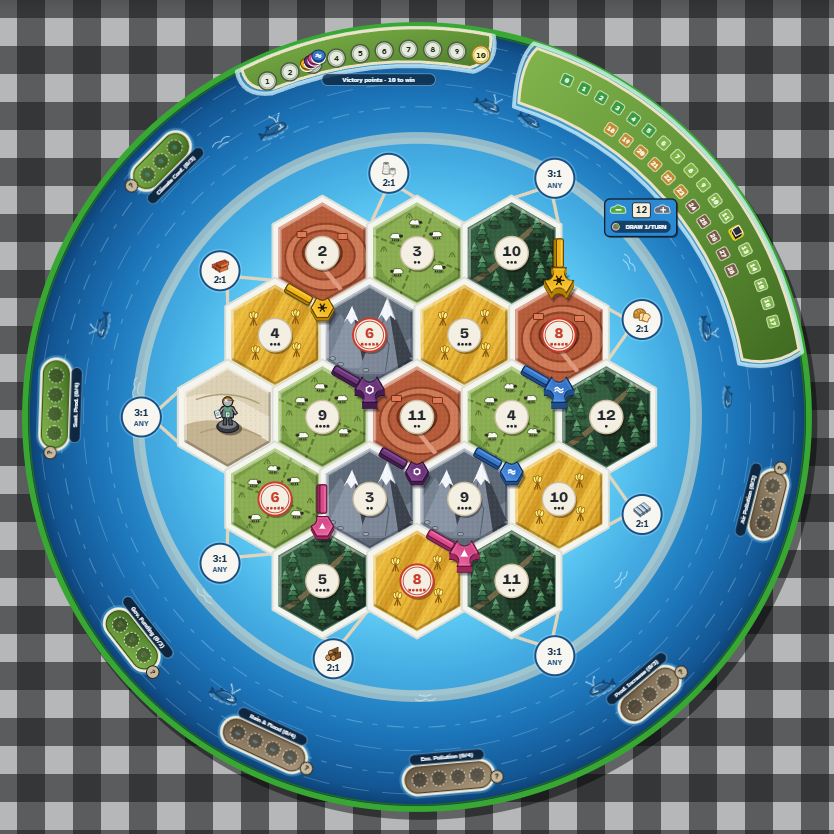
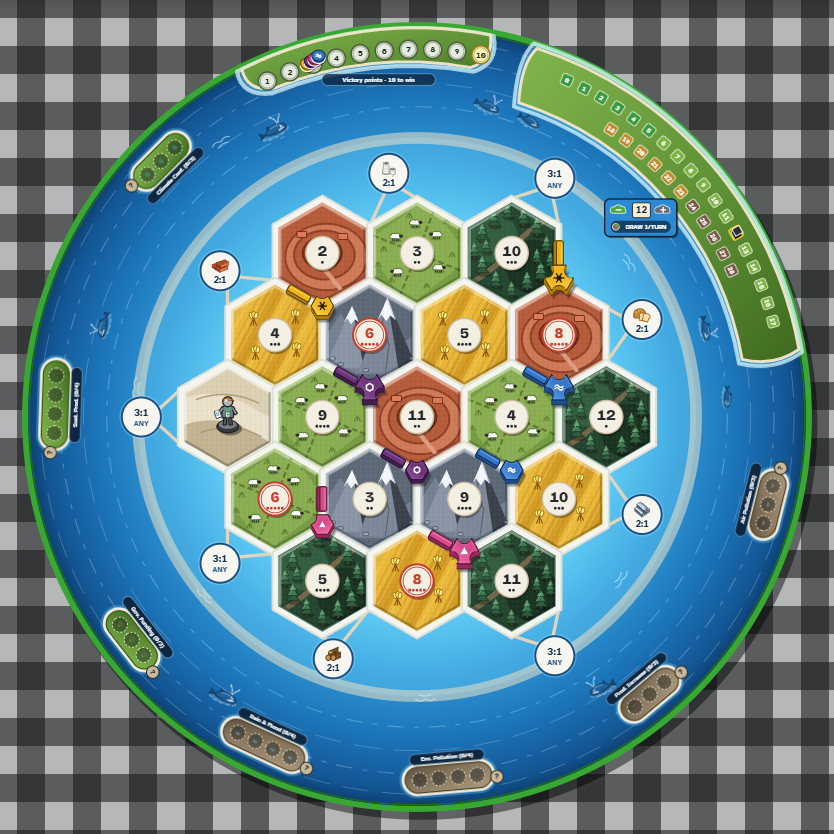
fix(ui): cities and towns sit centred on their intersection and meet roads cleanly
The piece's top face was drawn on the intersection with its side wall
hanging below it, so the whole piece reached about 5 units further toward
a road below the node than toward one above it. A city with a road going
down overlapped that road; with roads going up it looked fine.

- Pieces are raised by half their thickness so the footprint is centred
  on the node and reaches equally far in both directions; the city wall
  is a little thinner (6 -> 5 units).
- Roads are slightly shorter (ROAD_LENGTH = 25) so a road end meets the
  widest piece without being covered. TOWN_REACH / CITY_REACH and
  ROAD_LENGTH are shared constants, checked by piece-fit.test.ts.
- Power plants follow the raised top face so they stay nested in the
  notches; the dock, setup coach and player board no longer need their
  per-caller offsets.
- ?scenario=cityfit puts roads on every side of every building for
  visual checks.

Steel icon: two I-beams lie side by side and the third is stacked on top
in the middle, as requested.

diff --git a/src/ui/IslandBoardSvg.tsx b/src/ui/IslandBoardSvg.tsx
@@ -29,6 +29,7 @@ import {
   HEX_RADIUS,
   hexCoordToSvg,
   ISLAND_TRANSFORM,
+  ROAD_LENGTH,
   latticeToSvg,
   PLAYER_THEMES,
   TABLETOP_THEME,
@@ -39,8 +40,10 @@ import {
   HazardTokenSvg,
   InspectorPawnSvg,
   PieceDefs,
+  CITY_DEPTH,
   PLANT_RADIUS,
   PLANT_SOCKET_DIST,
+  TOWN_DEPTH,
   PowerPlantCylinderSvg,
   TownPieceSvg,
 } from './WoodenPiecesSvg';
@@ -686,11 +689,11 @@ export function IslandBoardSvg({
                         opacity={edge.road ? 1 : 0.6}
                         className={edge.road && isFresh(`e${edge.id}`) ? 'piece-drop' : undefined}
                       >
-                        <rect x={-13} y={-1.5} width={29} height={8.5} rx={2} fill="rgba(10,14,20,0.32)" />
+                        <rect x={-ROAD_LENGTH / 2 + 1} y={-1.5} width={ROAD_LENGTH} height={8.5} rx={2} fill="rgba(10,14,20,0.32)" />
                         <rect
-                          x={-14.5}
+                          x={-ROAD_LENGTH / 2}
                           y={-3.5}
-                          width={29}
+                          width={ROAD_LENGTH}
                           height={9}
                           rx={2}
                           fill={pTheme.sideFill}
@@ -698,9 +701,9 @@ export function IslandBoardSvg({
                           strokeWidth={1.1}
                         />
                         <rect
-                          x={-14.5}
+                          x={-ROAD_LENGTH / 2}
                           y={-4.5}
-                          width={29}
+                          width={ROAD_LENGTH}
                           height={7}
                           rx={1.8}
                           fill={pTheme.fill}
@@ -708,9 +711,9 @@ export function IslandBoardSvg({
                           strokeWidth={1.1}
                         />
                         <line
-                          x1={-12}
+                          x1={-ROAD_LENGTH / 2 + 2.5}
                           y1={-2.6}
-                          x2={12}
+                          x2={ROAD_LENGTH / 2 - 2.5}
                           y2={-2.6}
                           stroke={pTheme.highlight}
                           strokeWidth={1.2}
@@ -849,8 +852,10 @@ export function IslandBoardSvg({
             const dx = hp.x - np.x;
             const dy = hp.y - np.y;
             const dist = Math.hypot(dx, dy) || 1;
+            // The town/city top face is raised by half its thickness; keep the plant nested in its notch
+            const lift = (node.building?.type === 'city' ? CITY_DEPTH : TOWN_DEPTH) / 2;
             const slotX = np.x + (dx / dist) * PLANT_SOCKET_DIST;
-            const slotY = np.y + (dy / dist) * PLANT_SOCKET_DIST;
+            const slotY = np.y + (dy / dist) * PLANT_SOCKET_DIST - lift;
 
             const slotKey = `${node.id}-${hexId}`;
             const plant = node.powerPlants.find((p) => p.hexId === hexId) ?? null;

diff --git a/src/ui/WoodenPiecesSvg.tsx b/src/ui/WoodenPiecesSvg.tsx
@@ -106,8 +106,17 @@ export const PLANT_RADIUS = 7;
 
 const TOWN_RADIUS = 11.5;
 const CITY_APOTHEM = 13;
-const TOWN_DEPTH = 3.5;
-const CITY_DEPTH = 6;
+/** Thickness of the wooden pieces, in board units (drawn downward as the side wall). */
+export const TOWN_DEPTH = 3.5;
+export const CITY_DEPTH = 5;
+
+/**
+ * How far a Town / City reaches from its intersection toward a road, in board units. The piece is
+ * centred on the node (top face raised by half the wall thickness), so this is the same whether the
+ * road leaves upward or downward: flat-edge apothem plus half the thickness.
+ */
+export const TOWN_REACH = TOWN_RADIUS * Math.cos(Math.PI / 6) + TOWN_DEPTH / 2;
+export const CITY_REACH = CITY_APOTHEM + CITY_DEPTH / 2;
 
 function polar(radius: number, deg: number): [number, number] {
   const rad = (deg * Math.PI) / 180;
@@ -232,8 +241,11 @@ function WoodenPiece({
   showEmblem: boolean;
 }) {
   const p = PLAYER_THEMES[playerId];
+  // The side wall hangs below the top face, so raise the whole piece by half its thickness: the
+  // footprint is then centred on the intersection and reaches as far toward a road below the node
+  // as toward one above it.
   return (
-    <g>
+    <g transform={`translate(0, ${(-depth / 2).toFixed(2)})`}>
       {/* Soft contact shadow on the board */}
       <path
         d={d}
@@ -965,11 +977,11 @@ export function ResourceIconSvg({
     case 'steel':
       return (
         <g transform={`translate(${cx}, ${cy}) scale(${scale})`}>
-          {/* Three steel I-beams lying side by side (farthest first), the I profile at their near ends */}
-          <g transform="scale(0.9)">
-            {[2, 1, 0].map((i) => (
-              <IBeamPiece key={i} s={[-10.95 + i * 4.72, -0.9 - i * 3.07]} />
-            ))}
+          {/* Three steel I-beams: two lying side by side with a small gap, the third stacked on top in the middle */}
+          <g>
+            <IBeamPiece s={[-8.95 + 5.4, -1.57 - 3.5]} />
+            <IBeamPiece s={[-8.95, -1.57]} />
+            <IBeamPiece s={[-8.95 + 2.7, -1.57 - 1.75 - BEAM_DEPTH]} />
           </g>
         </g>
       );

diff --git a/src/ui/devScenarios.ts b/src/ui/devScenarios.ts
@@ -7,7 +7,8 @@
  *
  * Variants: `showcase` (action phase), `discard` (roll of 7 discard prompt),
  * `cardchoice` (Climate Conference reward prompt), `victory` (game over summary),
- * `draws2` / `draws3` (global footprint low / high, so the HUD shows 2 / 3 draws per turn).
+ * `draws2` / `draws3` (global footprint low / high, so the HUD shows 2 / 3 draws per turn),
+ * `cityfit` (roads on every side of every building, to check how pieces meet roads).
  */
 
 import { computePlayerLF, computeTrueTotalLF, clampGF } from '../engine/footprint';
@@ -84,10 +85,10 @@ export function applyShowcaseScenario(input: GameState): GameState {
   return state;
 }
 
-export type DevScenario = 'showcase' | 'discard' | 'cardchoice' | 'victory' | 'draws2' | 'draws3';
+export type DevScenario = 'showcase' | 'discard' | 'cardchoice' | 'victory' | 'draws2' | 'draws3' | 'cityfit';
 
 export function applyDevScenario(input: GameState, scenario: string): GameState {
-  if (!['showcase', 'discard', 'cardchoice', 'victory', 'draws2', 'draws3'].includes(scenario)) return input;
+  if (!['showcase', 'discard', 'cardchoice', 'victory', 'draws2', 'draws3', 'cityfit'].includes(scenario)) return input;
   const state = applyShowcaseScenario(input);
   if (scenario === 'discard') {
     state.phase = 'ProductionPhase';
@@ -107,6 +108,15 @@ export function applyDevScenario(input: GameState, scenario: string): GameState 
         isOptional: false,
       },
     ];
+  } else if (scenario === 'cityfit') {
+    // Roads on every side of every town and city, to check how pieces meet roads in all directions
+    for (const node of state.board.intersections) {
+      if (!node.building) continue;
+      for (const edgeId of node.incidentEdgeIds) {
+        const edge = state.board.edges[edgeId]!;
+        if (edge.road === null) edge.road = { playerId: node.building.playerId };
+      }
+    }
   } else if (scenario === 'draws2') {
     // Low global footprint: 2 event discs per turn
     state.trueTotalLF = 3;

diff --git a/src/ui/PlayerMat.tsx b/src/ui/PlayerMat.tsx
@@ -468,7 +468,7 @@ export function PlayerMat({
                   />
                   <FootprintCloudIconSvg type="plus" cx={0} cy={-2} scale={1.1} />
                   {hasPieceInReserve && (
-                    <TownPieceSvg playerId={player.id} cx={0} cy={-3} scale={TOWN_MAT_SCALE} cutoutAngleDeg={MAT_PIECE_ANGLE} />
+                    <TownPieceSvg playerId={player.id} cx={0} cy={0} scale={TOWN_MAT_SCALE} cutoutAngleDeg={MAT_PIECE_ANGLE} />
                   )}
                 </g>
               );
@@ -504,7 +504,7 @@ export function PlayerMat({
                   <FootprintCloudIconSvg type="plus" cx={0} cy={-11} scale={0.9} />
                   <FootprintCloudIconSvg type="plus" cx={0} cy={6} scale={0.9} />
                   {hasPieceInReserve && (
-                    <CityPieceSvg playerId={player.id} cx={0} cy={-4} scale={CITY_MAT_SCALE} cutoutAngleDeg={MAT_PIECE_ANGLE} />
+                    <CityPieceSvg playerId={player.id} cx={0} cy={0} scale={CITY_MAT_SCALE} cutoutAngleDeg={MAT_PIECE_ANGLE} />
                   )}
                 </g>
               );

diff --git a/src/ui/__tests__/piece-fit.test.ts b/src/ui/__tests__/piece-fit.test.ts
@@ -1,0 +1,22 @@
+import { describe, expect, it } from 'vitest';
+import { HEX_RADIUS, ROAD_LENGTH } from '../theme';
+import { CITY_REACH, TOWN_REACH } from '../WoodenPiecesSvg';
+
+describe('pieces meet roads cleanly', () => {
+  // A road is centred on its path, which is HEX_RADIUS long, so its end is this far from the node
+  const roadInner = (HEX_RADIUS - ROAD_LENGTH) / 2;
+
+  it('a city reaches the road end but does not cover it, in every direction', () => {
+    expect(CITY_REACH).toBeLessThanOrEqual(roadInner + 0.1);
+    expect(roadInner - CITY_REACH).toBeLessThan(1.5); // and the road is not left floating either
+  });
+
+  it('a town (smaller) always leaves a little room', () => {
+    expect(TOWN_REACH).toBeLessThan(CITY_REACH);
+    expect(TOWN_REACH).toBeLessThan(roadInner);
+  });
+
+  it('roads are still long enough to read as roads', () => {
+    expect(ROAD_LENGTH).toBeGreaterThanOrEqual(HEX_RADIUS * 0.4);
+  });
+});

diff --git a/src/ui/ActionDock.tsx b/src/ui/ActionDock.tsx
@@ -84,8 +84,8 @@ function BuildIcon({ kind, playerId }: { kind: BuildKind; playerId: PlayerId }) 
           <rect x="-12" y="-4" width="24" height="6.5" rx="2" fill={t.fill} stroke={t.stroke} strokeWidth="1" />
         </g>
       )}
-      {kind === 'town' && <TownPieceSvg playerId={playerId} cx={0} cy={-1} scale={1} cutoutAngleDeg={-90} showEmblem={false} />}
-      {kind === 'city' && <CityPieceSvg playerId={playerId} cx={0} cy={-2} scale={0.88} cutoutAngleDeg={-90} showEmblem={false} />}
+      {kind === 'town' && <TownPieceSvg playerId={playerId} cx={0} cy={0} scale={1} cutoutAngleDeg={-90} showEmblem={false} />}
+      {kind === 'city' && <CityPieceSvg playerId={playerId} cx={0} cy={0} scale={0.88} cutoutAngleDeg={-90} showEmblem={false} />}
       {kind === 'devCard' && (
         <g>
           <rect x="-7" y="-11" width="16" height="22" rx="2.5" fill="#2b5f8f" />

diff --git a/src/ui/SetupCoach.tsx b/src/ui/SetupCoach.tsx
@@ -84,9 +84,9 @@ function PieceGlyph({ piece, playerId, size = 22 }: { piece: 'town' | 'city'; pl
   return (
     <svg width={size} height={size} viewBox="-16 -16 32 32" aria-hidden="true">
       {piece === 'town' ? (
-        <TownPieceSvg playerId={playerId} cx={0} cy={-1.5} scale={1.15} cutoutAngleDeg={-90} showEmblem={false} />
+        <TownPieceSvg playerId={playerId} cx={0} cy={0} scale={1.15} cutoutAngleDeg={-90} showEmblem={false} />
       ) : (
-        <CityPieceSvg playerId={playerId} cx={0} cy={-2.5} scale={0.95} cutoutAngleDeg={-90} showEmblem={false} />
+        <CityPieceSvg playerId={playerId} cx={0} cy={0} scale={0.95} cutoutAngleDeg={-90} showEmblem={false} />
       )}
     </svg>
   );

diff --git a/src/ui/theme.ts b/src/ui/theme.ts
@@ -406,6 +406,13 @@ export const SQRT3 = Math.sqrt(3);
  * scaled up around the board centre so it fills the sea frame like the printed board does.
  */
 export const ISLAND_SCALE = 1.17;
+
+/**
+ * Wooden road length along its path. Paths are HEX_RADIUS long, so the road is centred with
+ * (HEX_RADIUS - ROAD_LENGTH) / 2 left free at each end: just enough that a City (the widest piece)
+ * sits against the road end without covering it, in every direction.
+ */
+export const ROAD_LENGTH = 25;
 export const ISLAND_TRANSFORM = `translate(${500 * (1 - ISLAND_SCALE)}, ${500 * (1 - ISLAND_SCALE)}) scale(${ISLAND_SCALE})`;
 
 /**
